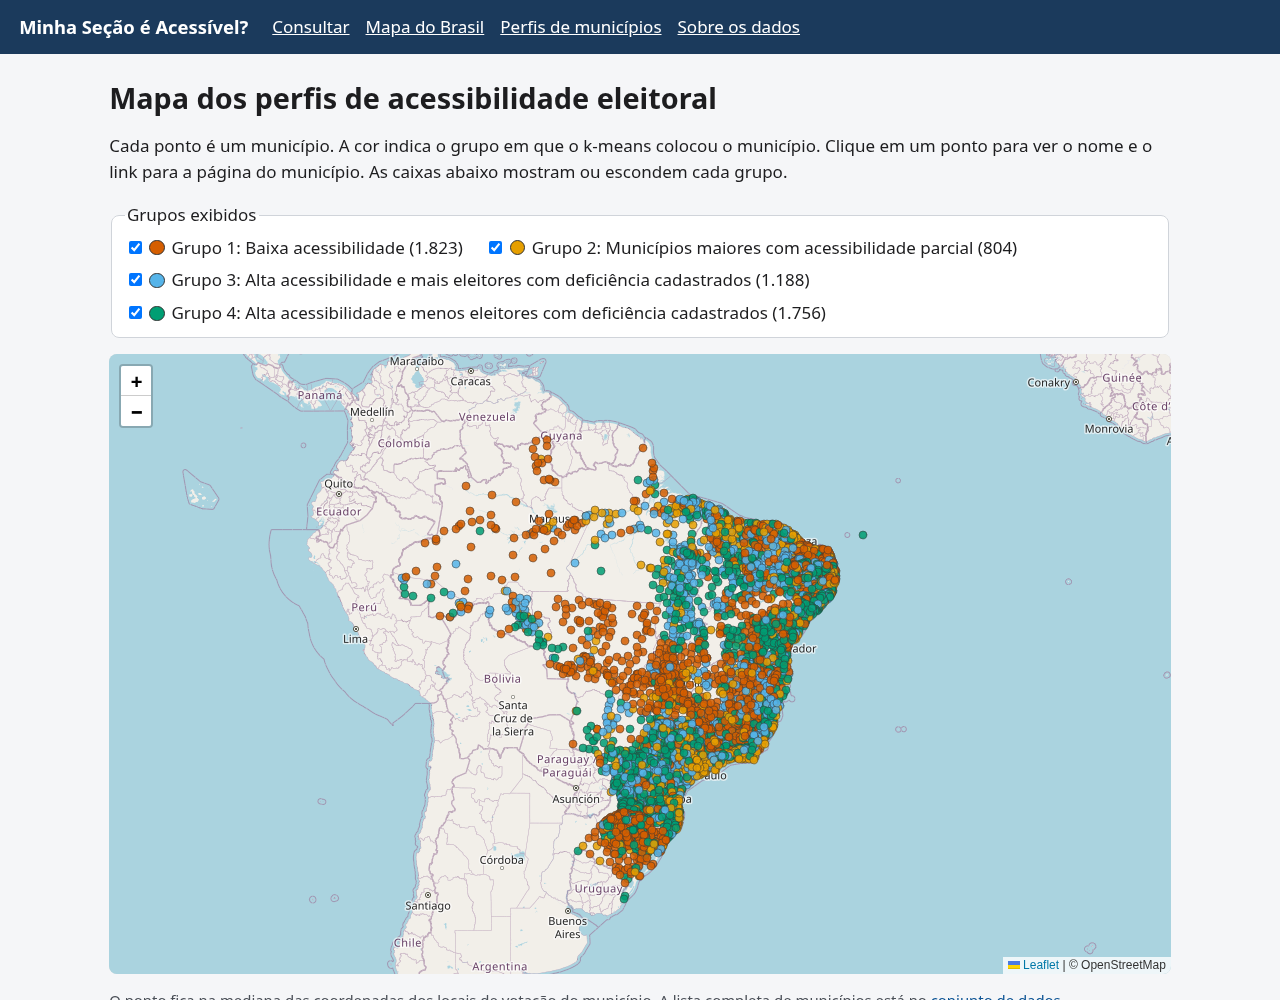
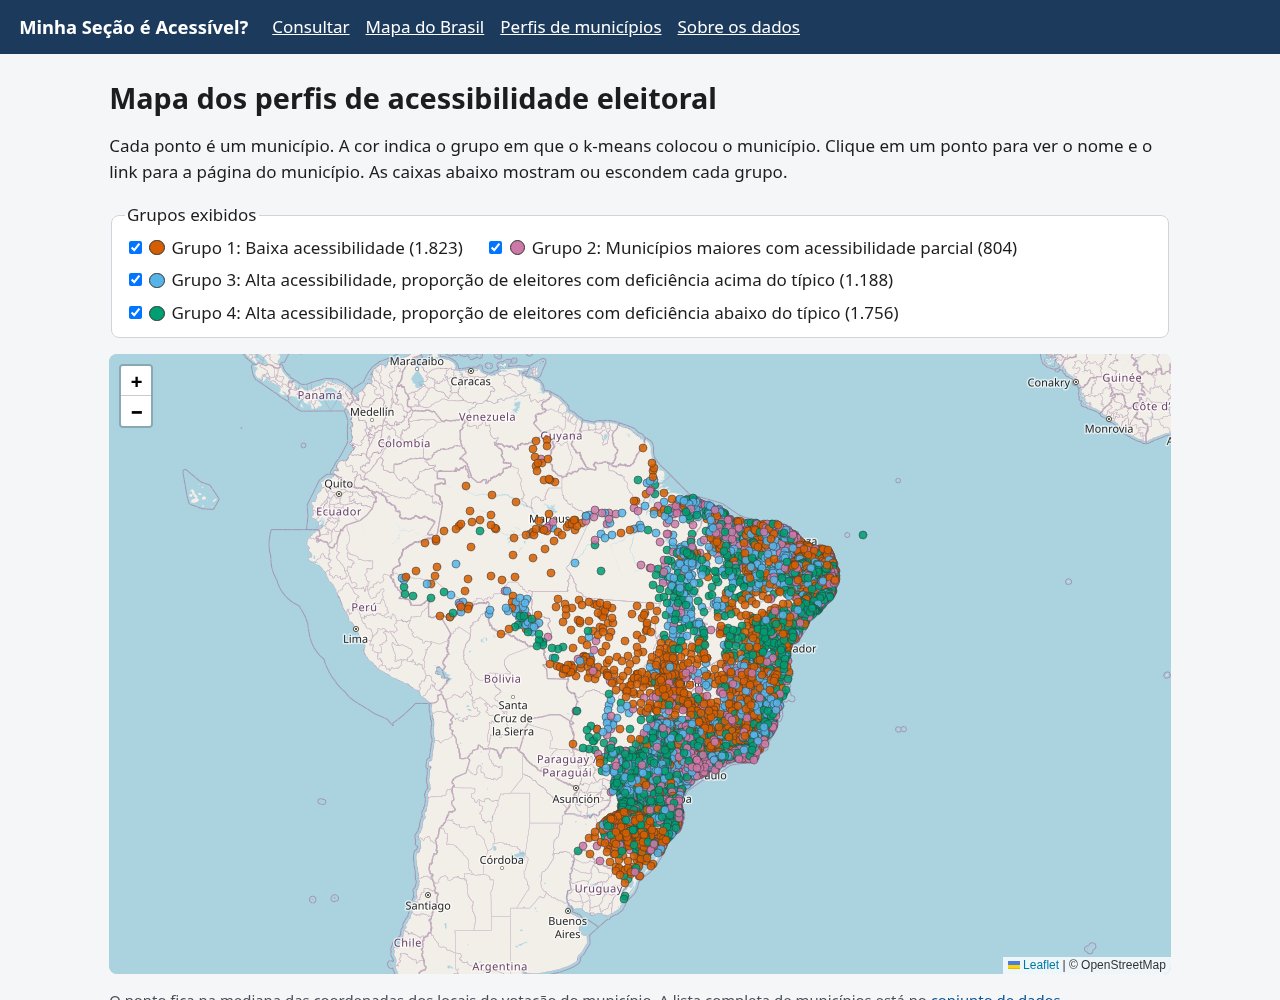
Apply community feedback: clearer names for groups 3 and 4, distinct group colors, mobile-friendly tables and chart

diff --git a/templates/municipio.html b/templates/municipio.html
@@ -5,7 +5,7 @@
 <p class="migalha"><a href="/">Início</a> › {{ m.nm_municipio }}/{{ m.uf }}</p>
 <h1>{{ m.nm_municipio }}/{{ m.uf }}</h1>
 <p>{% with g = grupo %}{% include "_grupo.html" %}{% endwith %}</p>
-<p>{{ descricoes[m.grupo] }} <a href="/grupos">O que são os grupos?</a></p>
+<p>{{ descrever(grupo) }} <a href="/grupos">O que são os grupos?</a></p>
 
 <ul class="indicadores">
   <li><span class="valor">{{ m.pct_secoes_acessiveis|br(1) }}%</span> das {{ m.qt_secoes|br }} seções constam como acessíveis</li>
@@ -16,14 +16,15 @@
 
 <section class="cartao">
   <h2>Comparação com o grupo e com o Brasil</h2>
-  <canvas id="grafico" height="220" role="img" aria-label="Gráfico de barras comparando o município, a mediana do grupo e o Brasil"></canvas>
-  <table class="tabela">
+  <div class="grafico-caixa"><canvas id="grafico" role="img" aria-label="Gráfico de barras comparando o município, a mediana do grupo e o Brasil"></canvas></div>
+  <table class="tabela cartoes">
     <caption>Os mesmos valores do gráfico</caption>
     <thead><tr><th scope="col">Indicador</th><th scope="col">{{ m.nm_municipio }}</th><th scope="col">Mediana do grupo {{ m.grupo }}</th><th scope="col">Brasil</th></tr></thead>
     <tbody>
-      <tr><th scope="row">Seções que constam como acessíveis (%)</th><td>{{ m.pct_secoes_acessiveis|br(1) }}</td><td>{{ grupo.mediana_pct_secoes_acessiveis|br(1) }}</td><td>{{ brasil.pct_secoes_acessiveis|br(1) }}</td></tr>
-      <tr><th scope="row">Locais sem nenhuma seção acessível (%)</th><td>{{ m.pct_locais_sem_acess|br(1) }}</td><td>{{ grupo.mediana_pct_locais_sem_acess|br(1) }}</td><td>{{ brasil.pct_locais_sem_acess|br(1) }}</td></tr>
-      <tr><th scope="row">Eleitores com deficiência em seções sem acessibilidade (%)</th><td>{{ m.pct_pcd_sem_acess|br(1) }}</td><td>{{ grupo.mediana_pct_pcd_sem_acess|br(1) }}</td><td>{{ brasil.pct_pcd_sem_acess|br(1) }}</td></tr>
+      {% set cols = [m.nm_municipio, 'Mediana do grupo ' ~ m.grupo, 'Brasil'] %}
+      <tr><th scope="row">Seções que constam como acessíveis (%)</th><td data-label="{{ cols[0] }}">{{ m.pct_secoes_acessiveis|br(1) }}</td><td data-label="{{ cols[1] }}">{{ grupo.mediana_pct_secoes_acessiveis|br(1) }}</td><td data-label="{{ cols[2] }}">{{ brasil.pct_secoes_acessiveis|br(1) }}</td></tr>
+      <tr><th scope="row">Locais sem nenhuma seção acessível (%)</th><td data-label="{{ cols[0] }}">{{ m.pct_locais_sem_acess|br(1) }}</td><td data-label="{{ cols[1] }}">{{ grupo.mediana_pct_locais_sem_acess|br(1) }}</td><td data-label="{{ cols[2] }}">{{ brasil.pct_locais_sem_acess|br(1) }}</td></tr>
+      <tr><th scope="row">Eleitores com deficiência em seções sem acessibilidade (%)</th><td data-label="{{ cols[0] }}">{{ m.pct_pcd_sem_acess|br(1) }}</td><td data-label="{{ cols[1] }}">{{ grupo.mediana_pct_pcd_sem_acess|br(1) }}</td><td data-label="{{ cols[2] }}">{{ brasil.pct_pcd_sem_acess|br(1) }}</td></tr>
     </tbody>
   </table>
   <p class="dica">A coluna Brasil usa o total de seções, locais e eleitores do país.</p>
@@ -34,16 +35,16 @@
   <div id="mapa-locais" class="mapa-medio" role="img" aria-label="Mapa dos locais de votação do município, coloridos pela situação de acessibilidade"></div>
   <ul class="legenda">
     <li><span class="bolinha" style="--cor:#0072B2"></span>Todas as seções constam como acessíveis</li>
-    <li><span class="bolinha" style="--cor:#E69F00"></span>Parte das seções</li>
+    <li><span class="bolinha" style="--cor:#F0E442"></span>Parte das seções</li>
     <li><span class="bolinha" style="--cor:#D55E00"></span>Nenhuma seção</li>
   </ul>
   <div class="rolagem">
-  <table class="tabela">
+  <table class="tabela cartoes">
     <thead><tr><th scope="col">Local</th><th scope="col">Bairro</th><th scope="col">Zona</th><th scope="col">Seções</th><th scope="col">Constam como acessíveis</th><th scope="col">Situação</th></tr></thead>
     <tbody>
       {% for l in locais %}
-      <tr><td>{{ l.nm_local }}</td><td>{{ l.bairro }}</td><td>{{ l.nr_zona }}</td><td>{{ l.qt_secoes }}</td><td>{{ l.qt_secoes_acessiveis }}</td>
-        <td>{{ {'todas': 'Todas', 'parcial': 'Parte', 'nenhuma': 'Nenhuma'}[l.status] }}</td></tr>
+      <tr><th scope="row">{{ l.nm_local }}</th><td data-label="Bairro">{{ l.bairro }}</td><td data-label="Zona">{{ l.nr_zona }}</td><td data-label="Seções">{{ l.qt_secoes }}</td><td data-label="Constam como acessíveis">{{ l.qt_secoes_acessiveis }}</td>
+        <td data-label="Situação">{{ {'todas': 'Todas', 'parcial': 'Parte', 'nenhuma': 'Nenhuma'}[l.status] }}</td></tr>
       {% endfor %}
     </tbody>
   </table>
@@ -57,7 +58,8 @@
   new Chart(document.getElementById('grafico'), {
     type: 'bar',
     data: {
-      labels: ['Seções acessíveis', 'Locais sem nenhuma seção acessível', 'Eleitores com deficiência em seção sem acessibilidade'],
+      // rótulos em várias linhas para caberem na tela do celular
+      labels: [['Seções', 'acessíveis'], ['Locais sem', 'nenhuma seção', 'acessível'], ['Eleitores com', 'deficiência em', 'seção sem', 'acessibilidade']],
       datasets: [
         {label: {{ m.nm_municipio|tojson }}, backgroundColor: '#1b3a5c',
          data: [{{ m.pct_secoes_acessiveis }}, {{ m.pct_locais_sem_acess }}, {{ m.pct_pcd_sem_acess }}]},
@@ -67,10 +69,11 @@
          data: [{{ brasil.pct_secoes_acessiveis }}, {{ brasil.pct_locais_sem_acess }}, {{ brasil.pct_pcd_sem_acess }}]},
       ],
     },
-    options: {indexAxis: 'y', scales: {x: {min: 0, max: 100, title: {display: true, text: '%'}}}},
+    options: {indexAxis: 'y', maintainAspectRatio: false,
+              scales: {x: {min: 0, max: 100, title: {display: true, text: '%'}}, y: {ticks: {autoSkip: false}}}},
   });
 
-  const cores = {todas: '#0072B2', parcial: '#E69F00', nenhuma: '#D55E00'};
+  const cores = {todas: '#0072B2', parcial: '#F0E442', nenhuma: '#D55E00'};
   const situacao = {todas: 'todas as seções', parcial: 'parte das seções', nenhuma: 'nenhuma seção'};
   fetch('/api/locais/{{ m.cd_municipio }}').then(r => r.json()).then(locais => {
     const mapa = L.map('mapa-locais', {preferCanvas: true});

diff --git a/templates/grupos.html b/templates/grupos.html
@@ -10,21 +10,21 @@
 <section class="cartao">
   <h2>Os grupos encontrados</h2>
   <div class="rolagem-x">
-  <table class="tabela">
+  <table class="tabela cartoes">
     <thead><tr><th scope="col">Grupo</th><th scope="col">Municípios</th><th scope="col">Seções acessíveis (mediana)</th>
       <th scope="col">Locais sem nenhuma seção acessível (mediana)</th><th scope="col">Eleitores com deficiência a cada mil (mediana)</th>
       <th scope="col">Eleitores (mediana)</th><th scope="col">Eleitores com deficiência em seção sem acessibilidade (total)</th></tr></thead>
     <tbody>
     {% for g in grupos %}
-      <tr><th scope="row" style="--cor: {{ cores[g.grupo] }}"><span class="bolinha" aria-hidden="true"></span>{{ g.grupo }}. {{ g.nome }}</th><td>{{ g.municipios|br }}</td>
-        <td>{{ g.mediana_pct_secoes_acessiveis|br(1) }}%</td><td>{{ g.mediana_pct_locais_sem_acess|br(1) }}%</td>
-        <td>{{ g.mediana_pcd_por_mil|br(1) }}</td><td>{{ g.mediana_eleitores|br }}</td><td>{{ g.pcd_sem_acess|br }}</td></tr>
+      <tr><th scope="row" style="--cor: {{ cores[g.grupo] }}"><span class="bolinha" aria-hidden="true"></span>{{ g.grupo }}. {{ g.nome }}</th><td data-label="Municípios">{{ g.municipios|br }}</td>
+        <td data-label="Seções acessíveis (mediana)">{{ g.mediana_pct_secoes_acessiveis|br(1) }}%</td><td data-label="Locais sem nenhuma seção acessível (mediana)">{{ g.mediana_pct_locais_sem_acess|br(1) }}%</td>
+        <td data-label="Eleitores com deficiência a cada mil (mediana)">{{ g.mediana_pcd_por_mil|br(1) }}</td><td data-label="Eleitores (mediana)">{{ g.mediana_eleitores|br }}</td><td data-label="Eleitores com deficiência em seção sem acessibilidade (total)">{{ g.pcd_sem_acess|br }}</td></tr>
     {% endfor %}
     </tbody>
   </table>
   </div>
   <ul class="lista-grupos">
-    {% for g in grupos %}<li style="--cor: {{ cores[g.grupo] }}"><h3><span class="bolinha" aria-hidden="true"></span>Grupo {{ g.grupo }}</h3><p>{{ descricoes[g.grupo] }}</p></li>{% endfor %}
+    {% for g in grupos %}<li style="--cor: {{ cores[g.grupo] }}"><h3><span class="bolinha" aria-hidden="true"></span>Grupo {{ g.grupo }}</h3><p>{{ descrever(g) }}</p></li>{% endfor %}
   </ul>
 </section>
 
@@ -43,7 +43,9 @@
     <li><strong>Número de grupos.</strong> O modelo rodou com 2 a 8 grupos. Para cada caso, o projeto mediu a inércia,
       usada no método do cotovelo, e o coeficiente de silhueta, que vai de -1 a 1 e cresce quando os grupos ficam mais
       separados.</li>
-    <li><strong>Nomes dos grupos.</strong> Cada grupo recebeu um nome a partir das medianas dos seus indicadores.</li>
+    <li><strong>Nomes dos grupos.</strong> Cada grupo recebeu um nome a partir das medianas dos seus indicadores. Quando
+      o nome fala em "típico", a comparação é com o município típico do Brasil, isto é, a mediana dos municípios: metade
+      deles fica acima desse valor e metade fica abaixo.</li>
   </ol>
   <canvas id="grafico-k" height="200" role="img" aria-label="Gráfico da silhueta e da inércia para cada número de grupos"></canvas>
   <table class="tabela">

diff --git a/static/estilo.css b/static/estilo.css
@@ -38,3 +38,18 @@ button, .botao { font: inherit; font-weight: 600; background: var(--azul); color
 .migalha { font-size: .93rem; color: #4a4f57; }
 .rodape { max-width: 1100px; margin: 1rem auto 2rem; padding: 0 1.2rem; font-size: .9rem; color: #4a4f57; }
 .rolagem-x { overflow-x: auto; }
+
+/* Em telas estreitas, cada linha de tabela vira um cartão com o nome da coluna ao lado do valor
+   (sugestão de um participante do teste com a comunidade). */
+@media (max-width: 640px) {
+  .tabela.cartoes thead { position: absolute; width: 1px; height: 1px; overflow: hidden; clip: rect(0 0 0 0); }
+  .tabela.cartoes, .tabela.cartoes tbody, .tabela.cartoes tr, .tabela.cartoes th[scope=row], .tabela.cartoes td { display: block; }
+  .tabela.cartoes tr { border: 1px solid var(--borda); border-radius: 8px; margin-bottom: .8rem; padding: .5rem .7rem; background: #fff; }
+  .tabela.cartoes th[scope=row] { border: 0; padding: 0 0 .3rem; font-size: 1rem; }
+  .tabela.cartoes td { display: flex; justify-content: space-between; gap: 1rem; border: 0; border-top: 1px solid #eef0f3; padding: .3rem 0; text-align: right; }
+  .tabela.cartoes td::before { content: attr(data-label); font-weight: 600; text-align: left; }
+  .rolagem { max-height: none; }
+  .tabela { font-size: 1rem; }
+}
+.grafico-caixa { position: relative; height: 300px; }
+@media (max-width: 640px) { .tabela.cartoes caption { display: block; } .grafico-caixa { height: 380px; } }

diff --git a/templates/inicio.html b/templates/inicio.html
@@ -47,7 +47,7 @@
     {% for g in grupos %}
     <li style="--cor: {{ cores[g.grupo] }}">
       <h3><span class="bolinha" aria-hidden="true"></span>Grupo {{ g.grupo }}: {{ g.nome }}</h3>
-      <p>{{ descricoes[g.grupo] }}</p>
+      <p>{{ descrever(g) }}</p>
       <p class="numeros">{{ g.municipios|br }} municípios. Neles, {{ g.pcd_sem_acess|br }} eleitores com deficiência votam em seções sem acessibilidade.</p>
     </li>
     {% endfor %}

diff --git a/src/msa/app.py b/src/msa/app.py
@@ -21,18 +21,31 @@ RAIZ = Path(os.environ.get('MSA_ROOT', Path(__file__).resolve().parents[2]))
 DATASET = os.environ.get('MSA_DATASET', str(RAIZ / 'dataset'))
 CAMINHO_DB = os.environ.get('MSA_DB', str(RAIZ / 'data' / 'msa.sqlite'))
 
-CORES = {1: '#D55E00', 2: '#E69F00', 3: '#56B4E9', 4: '#009E73'}  # paleta Okabe-Ito (daltonismo)
+# paleta Okabe-Ito (daltonismo). O grupo 2 era laranja (#E69F00) e um participante achou parecido com o grupo 1.
+CORES = {1: '#D55E00', 2: '#CC79A7', 3: '#56B4E9', 4: '#009E73'}
 DESCRICOES = {
     1: 'Quase nenhuma seção consta como acessível. Na maioria dos locais de votação, todas as seções '
        'estão sem acessibilidade. A maior parte desses municípios é pequena.',
     2: 'Municípios médios e grandes, com parte das seções acessível. Eles têm a maioria dos eleitores '
        'do país e, por isso, a maioria dos eleitores com deficiência que votam em seções sem '
        'acessibilidade.',
-    3: 'A maioria das seções consta como acessível. Esses municípios têm mais eleitores com '
-       'deficiência cadastrados a cada mil eleitores do que os do grupo 4.',
-    4: 'A maioria das seções consta como acessível. Esses municípios têm menos eleitores com '
-       'deficiência cadastrados a cada mil eleitores do que os do grupo 3.',
+    3: 'A maioria das seções consta como acessível. No município típico deste grupo, {grupo} de cada '
+       'mil eleitores têm deficiência cadastrada. No município típico do Brasil, são {brasil}.',
+    4: 'A maioria das seções consta como acessível. No município típico deste grupo, {grupo} de cada '
+       'mil eleitores têm deficiência cadastrada. No município típico do Brasil, são {brasil}.',
 }
+
+
+def br(v, casas=0):
+    if v is None:
+        return 'sem dado'
+    return f'{v:,.{casas}f}'.replace(',', 'X').replace('.', ',').replace('X', '.')
+
+
+def descrever(g):
+    """Descrição do grupo, com a comparação explícita para os grupos 3 e 4."""
+    return DESCRICOES[g['grupo']].format(grupo=br(g['mediana_pcd_por_mil'], 1),
+                                         brasil=br(banco.mediana_pcd_por_mil(), 1))
 
 banco: db.Banco | None = None
 
@@ -49,9 +62,8 @@ app = FastAPI(title='Minha Seção é Acessível?', lifespan=lifespan)
 app.mount('/static', StaticFiles(directory=RAIZ / 'static'), name='static')
 app.mount('/dados', StaticFiles(directory=DATASET), name='dados')
 templates = Jinja2Templates(directory=RAIZ / 'templates')
-templates.env.globals.update(cores=CORES, descricoes=DESCRICOES)
-templates.env.filters['br'] = lambda v, casas=0: (
-    f'{v:,.{casas}f}'.replace(',', 'X').replace('.', ',').replace('X', '.') if v is not None else 'sem dado')
+templates.env.globals.update(cores=CORES, descrever=descrever)
+templates.env.filters['br'] = br
 
 
 def pagina(request, nome, **ctx):

diff --git a/tests/test_app.py b/tests/test_app.py
@@ -63,3 +63,23 @@ def test_nenhuma_pagina_afirma_que_secao_e_acessivel(cliente):
 
 def test_dataset_para_download(cliente):
     assert cliente.get('/dados/municipios.csv').status_code == 200
+
+
+# Melhorias pedidas no teste com a comunidade (Formulário 2)
+
+def test_grupos_3_e_4_dizem_com_o_que_comparam(cliente):
+    texto = cliente.get('/grupos').text
+    assert 'acima do típico' in texto and 'abaixo do típico' in texto
+    assert 'No município típico do Brasil, são' in texto
+
+
+def test_cores_dos_grupos_1_e_2_sao_diferentes(cliente):
+    from msa.app import CORES
+    assert CORES[1] == '#D55E00' and CORES[2] == '#CC79A7'
+    assert len(set(CORES.values())) == 4
+
+
+def test_tabelas_viram_cartoes_no_celular(cliente):
+    texto = cliente.get('/municipio/50350').text
+    assert 'tabela cartoes' in texto and 'data-label="Situação"' in texto
+    assert '@media (max-width: 640px)' in cliente.get('/static/estilo.css').text

diff --git a/src/msa/db.py b/src/msa/db.py
@@ -118,6 +118,12 @@ class Banco:
         b['pcd_por_mil'] = round(1000 * b['pcd_total'] / b['eleitores'], 1)
         return b
 
+    def mediana_pcd_por_mil(self):
+        """Eleitores com deficiência a cada mil no município típico (mediana dos municípios)."""
+        valores = [r['pcd_por_mil'] for r in self._todos('SELECT pcd_por_mil FROM municipios ORDER BY pcd_por_mil')]
+        meio = len(valores) // 2
+        return valores[meio] if len(valores) % 2 else (valores[meio - 1] + valores[meio]) / 2
+
     def pontos_mapa(self):
         return self._todos('SELECT cd_municipio, nm_municipio, uf, lat, lon, grupo, '
                            'pct_secoes_acessiveis, pcd_sem_acess FROM municipios '

diff --git a/src/msa/cluster.py b/src/msa/cluster.py
@@ -29,8 +29,8 @@ SEMENTE = 42
 NOMES = {
     1: 'Baixa acessibilidade',
     2: 'Municípios maiores com acessibilidade parcial',
-    3: 'Alta acessibilidade e mais eleitores com deficiência cadastrados',
-    4: 'Alta acessibilidade e menos eleitores com deficiência cadastrados',
+    3: 'Alta acessibilidade, proporção de eleitores com deficiência acima do típico',
+    4: 'Alta acessibilidade, proporção de eleitores com deficiência abaixo do típico',
 }
 
 
